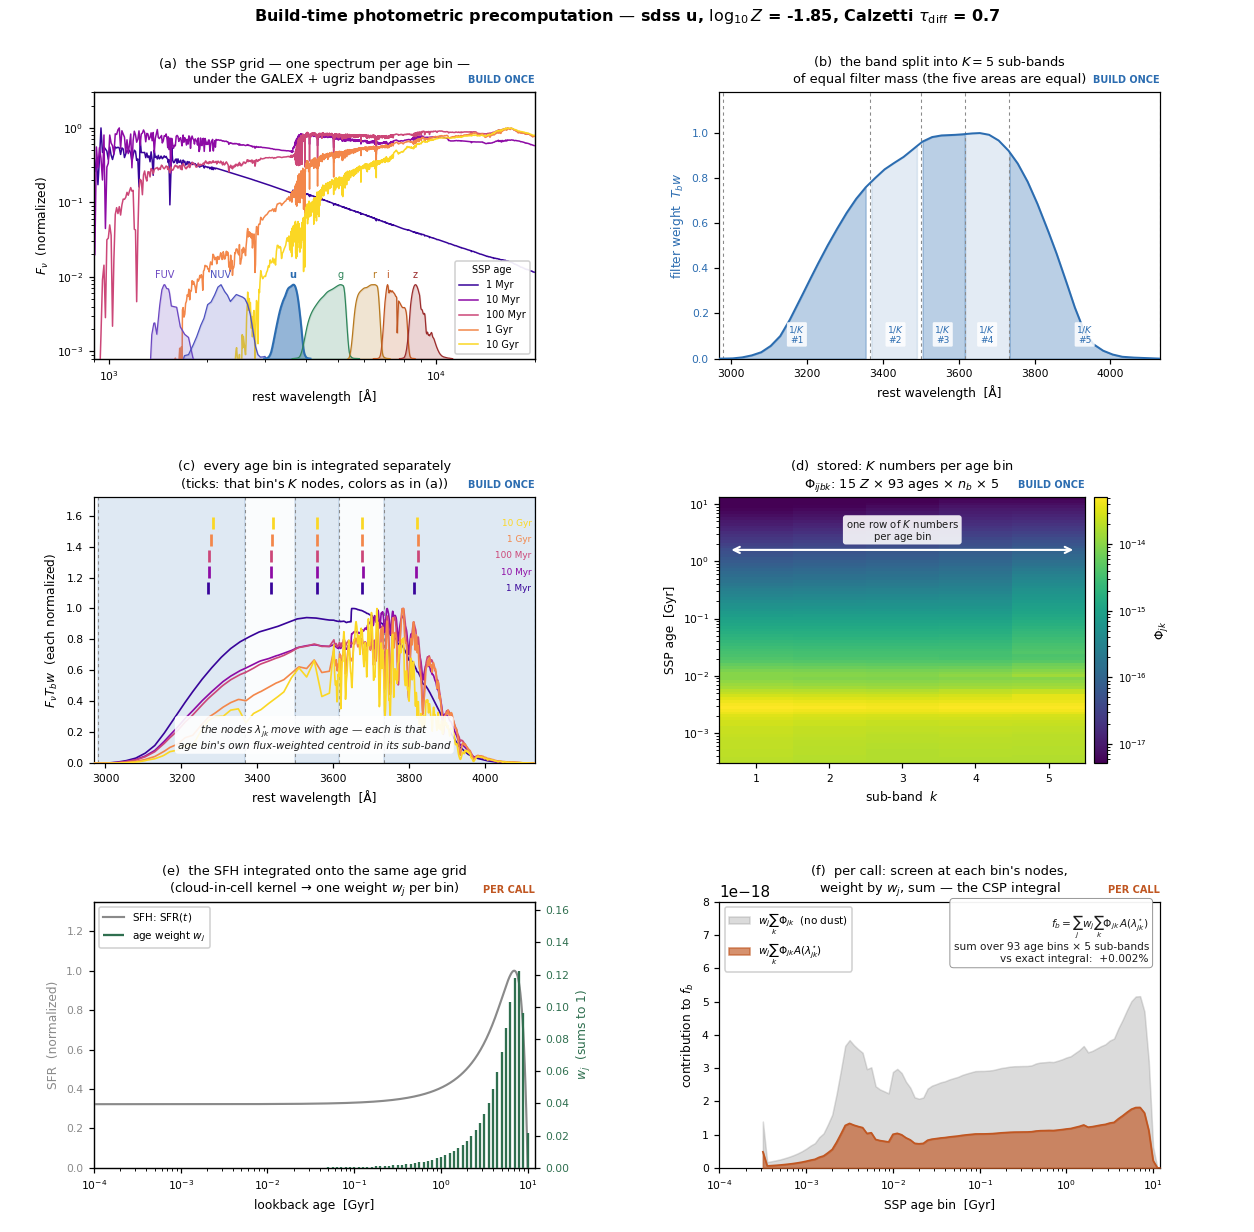
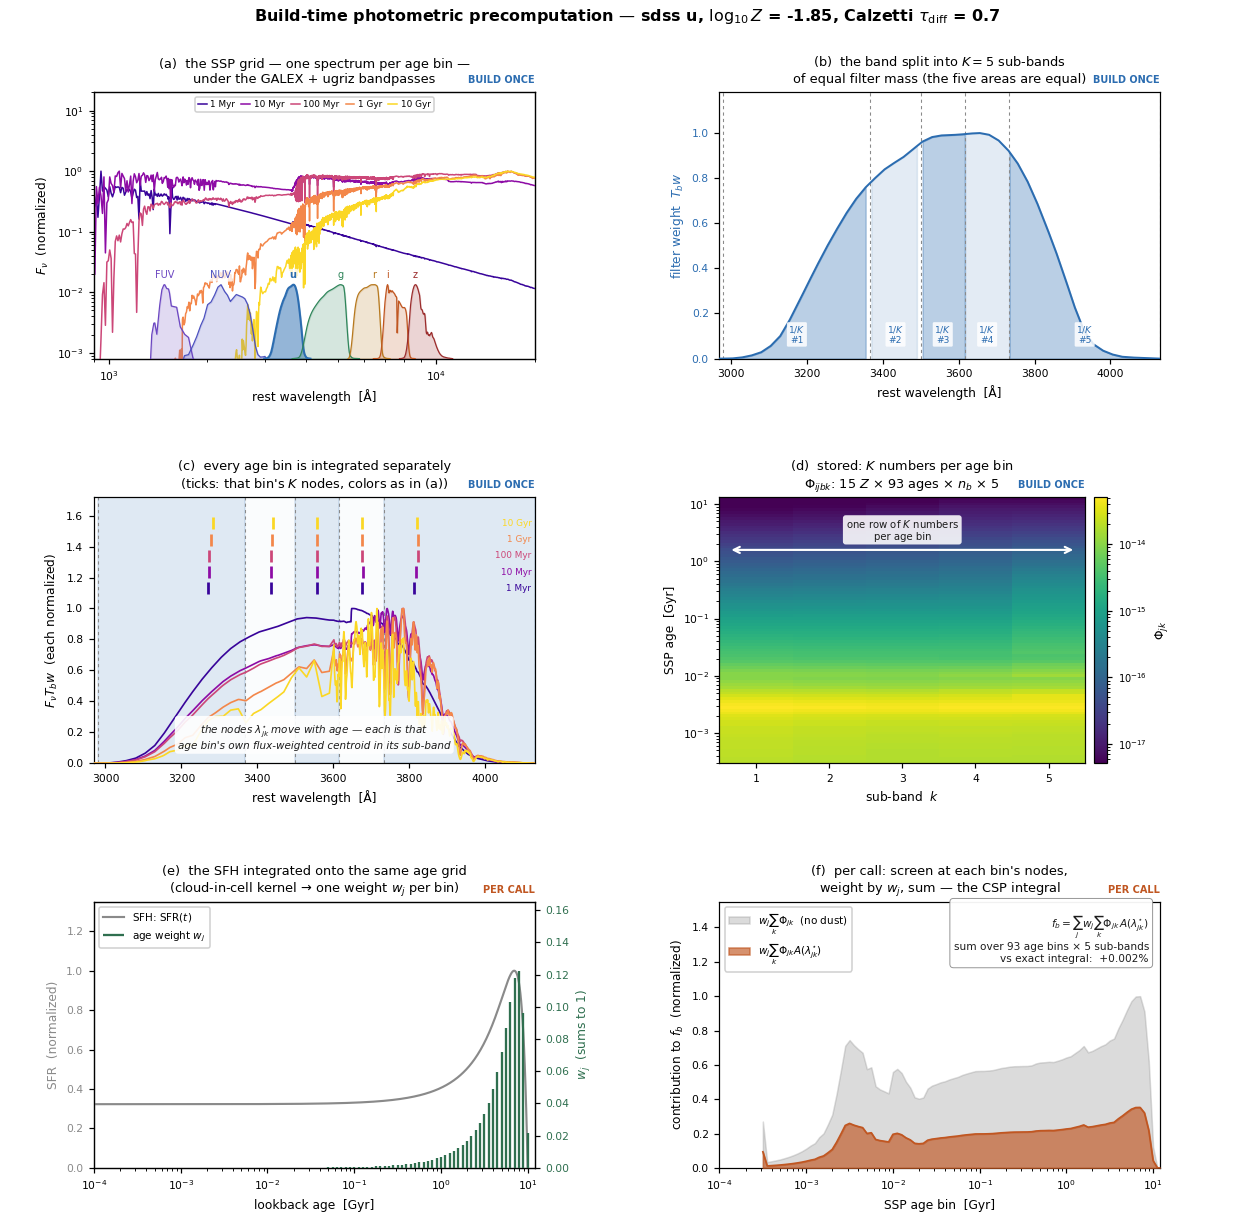
docs: clear the last three overlaps in the precompute schematic
Cosmetic only, no change to what the panels show or compute.

- (a) the "SSP age" legend sat on top of the i and z bandpasses at the lower
  right. Raised the y-limit to open headroom above the spectra and moved it to
  a single row across the top.
- (a) that move put the NUV label under the 10 Gyr curve, so the bandpass
  labels now carry a translucent background.
- (f) plotted normalized. The absolute scale is per unit formed mass and means
  nothing to the reader, while leaving it raw parked a 1e-18 axis exponent in
  the corner beside the legend.

Verified: sphinx build succeeds with no warning or error on the page, the
rendered h1 still reads "Caveats"; ruff check + format clean; both figures
re-read after rendering.

Changed region(s): [[0.0622, 0.0617, 0.4354, 0.2776], [0.311, 0.1851, 0.4354, 0.3084], [0.5287, 0.7711, 0.5598, 0.9253]]

diff --git a/scripts/render_precompute_schematic.py b/scripts/render_precompute_schematic.py
@@ -281,7 +281,8 @@ def _panel_sed(ax, wave, flux_2d, lg_age_gyr):
             fontsize=6.4,
             color=color,
             weight="bold" if chosen else "normal",
-            zorder=5,
+            zorder=6,
+            bbox=dict(boxstyle="round,pad=0.14", fc="white", ec="none", alpha=0.8),
         )
 
     ax2.set_ylim(0, 3.6)
@@ -289,12 +290,21 @@ def _panel_sed(ax, wave, flux_2d, lg_age_gyr):
     ax.set_xscale("log")
     ax.set_yscale("log")
     ax.set_xlim(900, 20000)
-    ax.set_ylim(8e-4, 3.0)
+    # Headroom above the spectra for a single-row legend; at the lower right
+    # it sat on top of the i and z bandpasses.
+    ax.set_ylim(8e-4, 20.0)
     ax.set_xlabel("rest wavelength  [Å]", fontsize=8)
     ax.set_ylabel("$F_\\nu$  (normalized)", fontsize=8)
     ax.tick_params(labelsize=7)
     ax.legend(
-        fontsize=6.4, loc="lower right", framealpha=0.92, title="SSP age", title_fontsize=6.4
+        fontsize=5.8,
+        loc="upper center",
+        ncol=5,
+        framealpha=0.92,
+        handlelength=1.0,
+        columnspacing=0.7,
+        handletextpad=0.4,
+        borderpad=0.35,
     )
     ax.set_title(
         "(a)  the SSP grid — one spectrum per age bin —\nunder the GALEX + ugriz bandpasses",
@@ -488,10 +498,14 @@ def _panel_contract(ax, grid, tw, templates, phi, nodes, weights, lg_age_gyr):
     per_age_bare = np.sum(phi, axis=1)
     per_age_screened = np.sum(phi * a_nodes, axis=1)
 
+    # Plot normalized: the absolute scale is per unit formed mass and carries
+    # no meaning here, while leaving it raw puts a 1e-18 exponent in the
+    # corner next to the legend.
+    norm = float(np.max(weights * per_age_bare))
     ax.fill_between(
         age_gyr,
         0,
-        weights * per_age_bare,
+        weights * per_age_bare / norm,
         color=GREY,
         alpha=0.30,
         zorder=2,
@@ -500,13 +514,13 @@ def _panel_contract(ax, grid, tw, templates, phi, nodes, weights, lg_age_gyr):
     ax.fill_between(
         age_gyr,
         0,
-        weights * per_age_screened,
+        weights * per_age_screened / norm,
         color=ORANGE,
         alpha=0.65,
         zorder=3,
         label="$w_j \\sum_k \\Phi_{jk} A(\\lambda^{\\star}_{jk})$",
     )
-    ax.plot(age_gyr, weights * per_age_screened, color=ORANGE, lw=1.1, zorder=4)
+    ax.plot(age_gyr, weights * per_age_screened / norm, color=ORANGE, lw=1.1, zorder=4)
 
     f_b = float(np.sum(weights * per_age_screened))
     screen_grid = _screen(grid)
@@ -518,9 +532,9 @@ def _panel_contract(ax, grid, tw, templates, phi, nodes, weights, lg_age_gyr):
 
     ax.set_xscale("log")
     ax.set_xlim(1e-4, 12.0)
-    ax.set_ylim(0, float(np.max(weights * per_age_bare)) * 1.55)
+    ax.set_ylim(0, 1.55)
     ax.set_xlabel("SSP age bin  [Gyr]", fontsize=8)
-    ax.set_ylabel("contribution to $f_b$", fontsize=8)
+    ax.set_ylabel("contribution to $f_b$  (normalized)", fontsize=8)
     ax.tick_params(labelsize=7)
     ax.legend(fontsize=6.8, loc="upper left", framealpha=0.92)
     ax.text(
